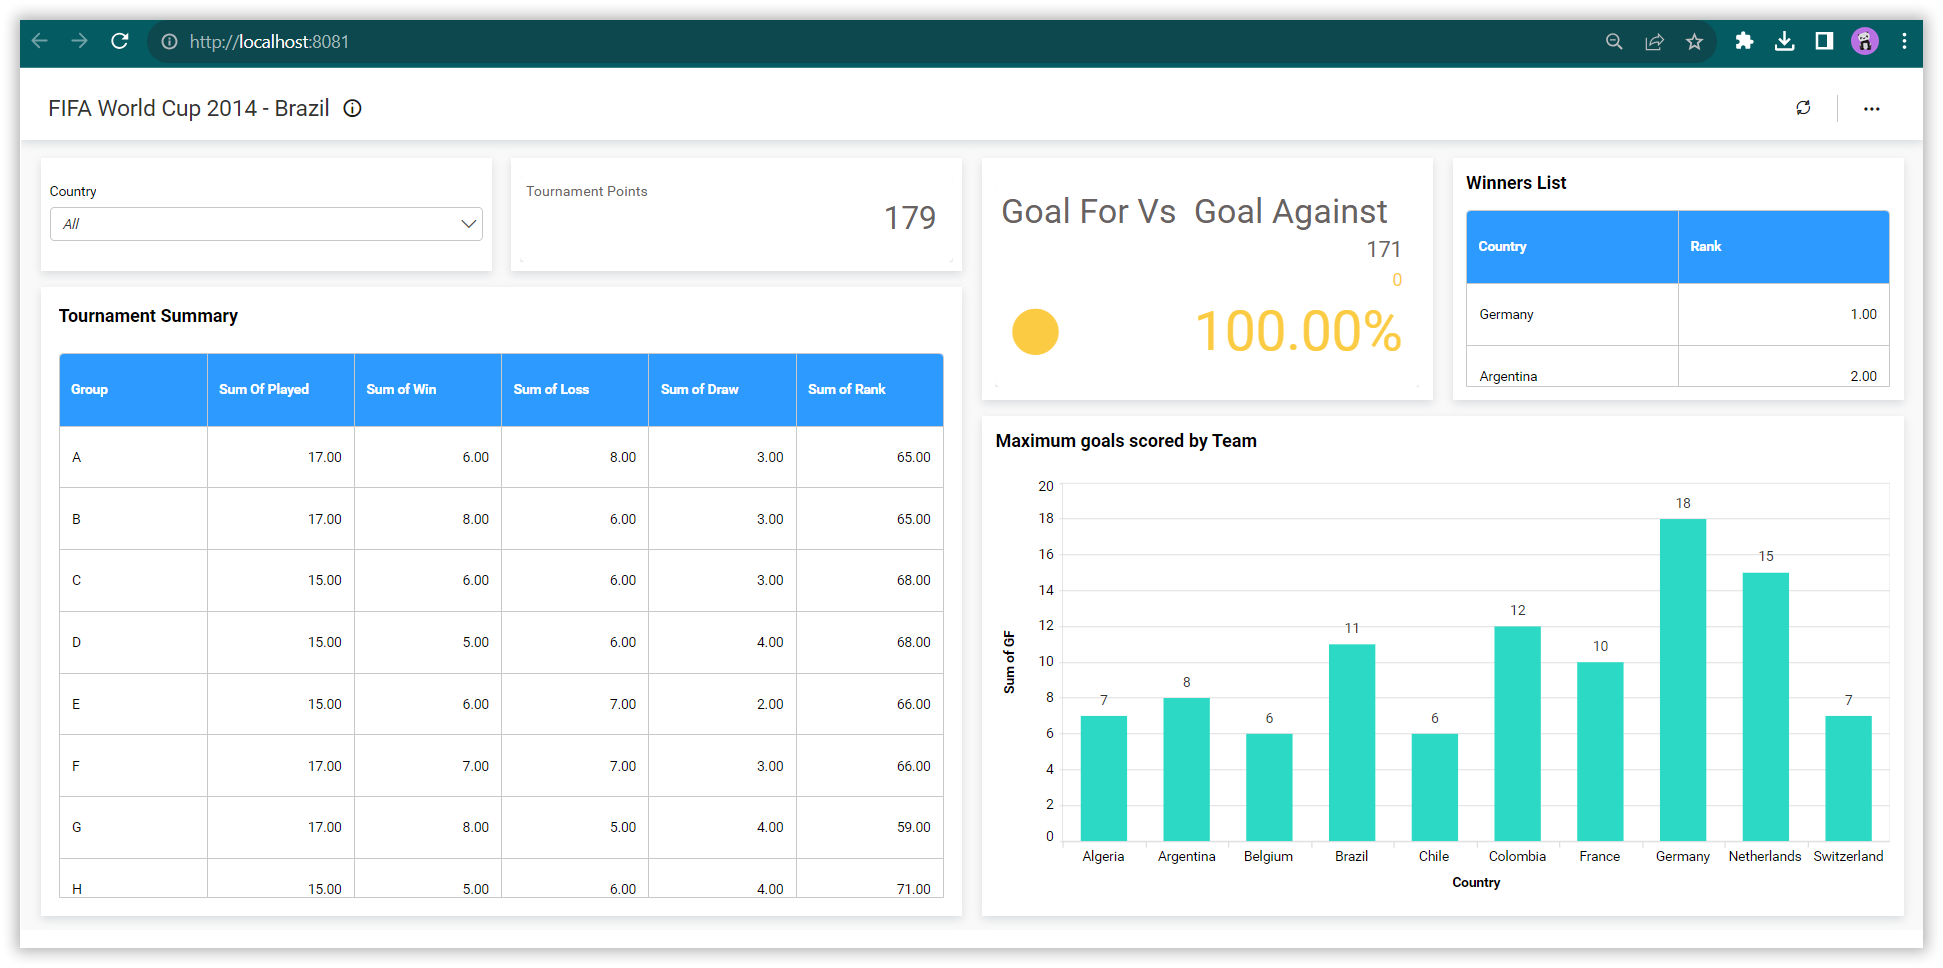
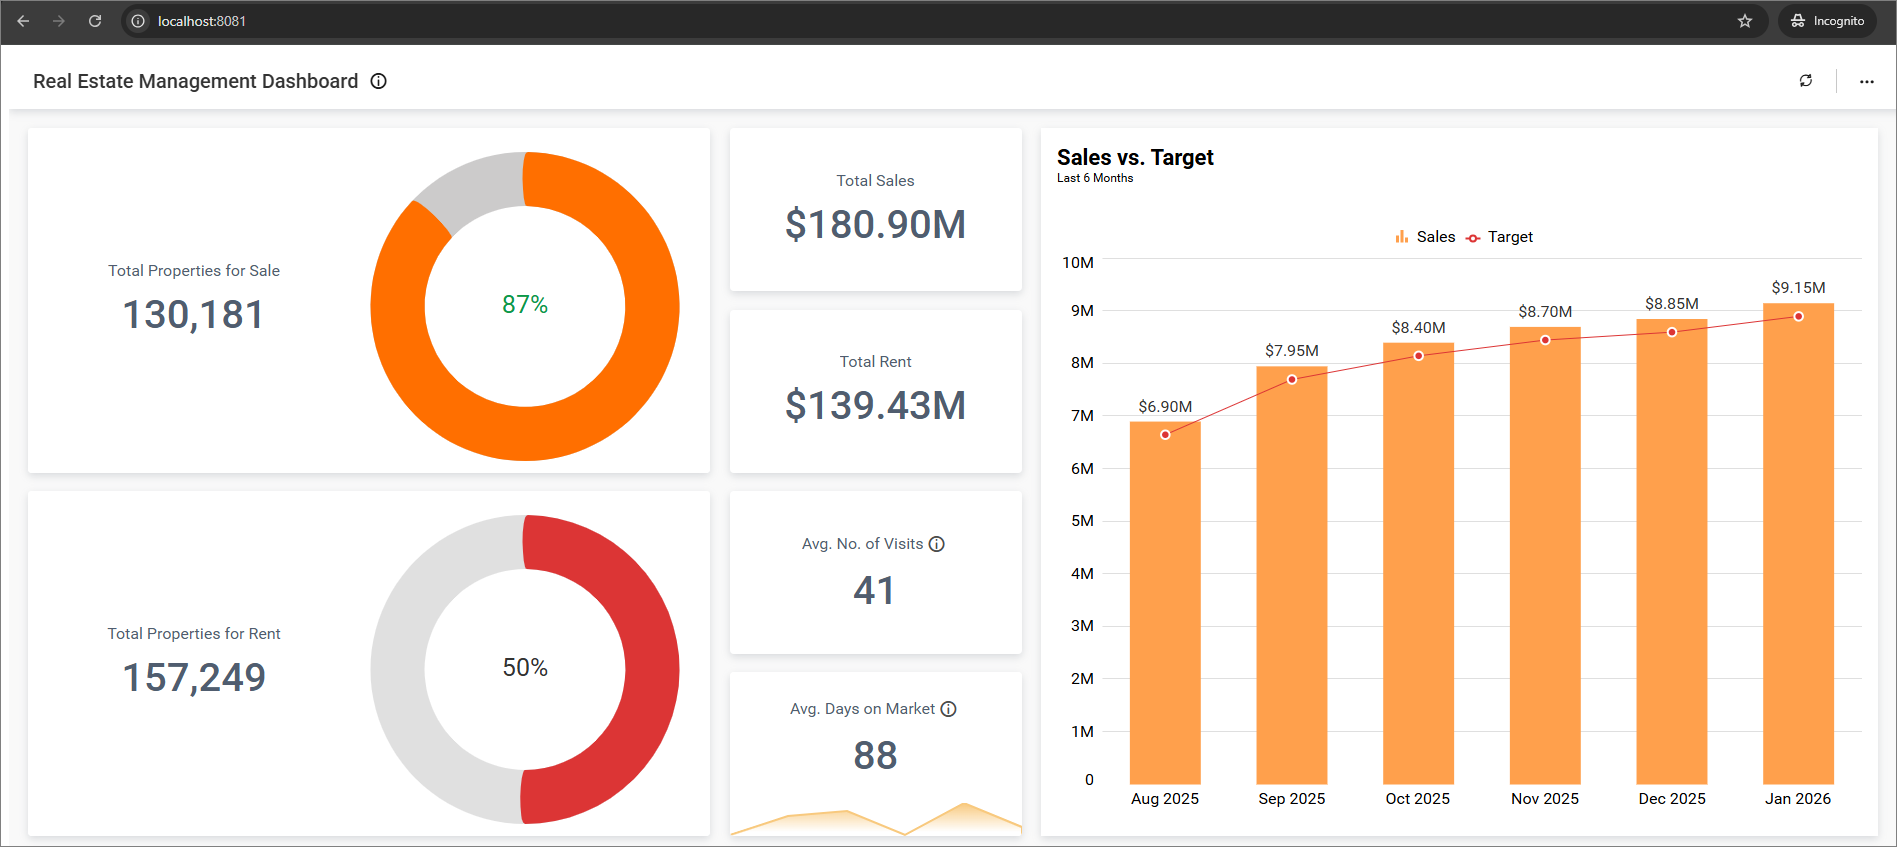
updated sample with embedtoken

diff --git a/Nodejs/embed.js b/Nodejs/embed.js
@@ -16,54 +16,79 @@ app.use(express.json());
 const port = 8080;
 
 let appconfig;
+const configPath = path.join(__dirname, 'embedConfig.json');
+let rawConfig;
 try {
-appconfig = JSON.parse(fs.readFileSync('embedConfig.json'));
-} catch (error) {
-console.error('Error: embedConfig.json file not found.');
-process.exit(1);
+  rawConfig = fs.readFileSync(configPath, 'utf8');
+} catch (err) {
+  console.error(`Error: cannot read embedConfig.json at ${configPath}:`, err.message);
+  process.exit(1);
+}
+try {
+  if (rawConfig && rawConfig.charCodeAt(0) === 0xFEFF) {
+    rawConfig = rawConfig.slice(1);
+  }
+  rawConfig = rawConfig.trim();
+  appconfig = JSON.parse(rawConfig);
+} catch (err) {
+  console.error(`Error: invalid JSON in embedConfig.json at ${configPath}:`, err.message);
+  process.exit(1);
 }
 
-var embedSecret = appconfig.EmbedSecret;
-var userEmail = appconfig.UserEmail;
+app.post('/TokenGeneration', function (req, response) {
+  const embedDetails = {
+    email: appconfig.UserEmail,
+    serverurl: appconfig.ServerUrl,
+    siteidentifier: appconfig.SiteIdentifier,
+    embedsecret: appconfig.EmbedSecret,
+    dashboard: {  // Dashboard ID property is mandatory only when using BoldBI version 14.1.11.
+      id: appconfig.DashboardId
+    }
+  }
 
-app.post('/authorizationserver',  async function (req, response){
-var embedQuerString = req.body.embedQuerString;
-var dashboardServerApiUrl = req.body.dashboardServerApiUrl;
+  const parsedUrl = new URL(embedDetails.serverurl);
+  const postData = JSON.stringify(embedDetails);
+  const client = parsedUrl.protocol === 'https:' ? https : http;
+  const options = {
+    hostname: parsedUrl.hostname,
+    port: parsedUrl.port || (parsedUrl.protocol === 'https:' ? 443 : 80),
+    path: `${parsedUrl.pathname}/api/${embedDetails.siteidentifier}/embed/authorize`,
+    method: 'POST',
+    headers: {
+      'Content-Type': 'application/json',
+      'Content-Length': Buffer.byteLength(postData)
+    }
+  };
 
-embedQuerString += "&embed_user_email=" + userEmail;
-embedQuerString += "&embed_server_timestamp=" + Math.round((new Date()).getTime() / 1000);
-var embedSignature = "&embed_signature=" + GetSignatureUrl(embedQuerString);
-var embedDetailsUrl = "/embed/authorize?" + embedQuerString+embedSignature;
-
-var serverProtocol = url.parse(dashboardServerApiUrl).protocol == 'https:' ? https : http;
-serverProtocol.get(dashboardServerApiUrl+embedDetailsUrl, function(res){
-    var str = '';
-    res.on('data', function (chunk) {
-    str += chunk;
+  const requ = client.request(options, res => {
+    let result = '';
+    res.setEncoding('utf8');
+    res.on('data', chunk => result += chunk);
+    res.on('end', () => {
+      const resultparse = JSON.parse(result); // Parse the response
+      response.send(resultparse?.Data?.access_token);
     });
-    res.on('end', function () {
-    response.send(str);
-    });
-});
+  });
+
+  requ.on('error', (e) => {
+    console.error("Error fetching embed token:", e.message);
+  });
+
+  requ.write(postData);
+  requ.end();
 })
 
-function GetSignatureUrl(queryString)
-{
-var keyBytes = Buffer.from(embedSecret);
-var hmac = crypto.createHmac('sha256', keyBytes);
-data = hmac.update(queryString);
-gen_hmac= data.digest().toString('base64');
-
-return gen_hmac;
-}
 app.get('/getdetails', (req, res) => {
-    const serverEmbedConfigData = path.join(__dirname, 'embedConfig.json');
-    const jsonData = fs.readFileSync(serverEmbedConfigData, 'utf8');
-    const parsedData = JSON.parse(jsonData);
+    const parsedData = appconfig;
 
     const clientEmbedConfigData = {
-        DashboardId: parsedData.DashboardId, ServerUrl: parsedData.ServerUrl, SiteIdentifier: parsedData.SiteIdentifier, EmbedType: parsedData.EmbedType, Environment: parsedData.Environment
+        DashboardId: parsedData.DashboardId,
+        ServerUrl: parsedData.ServerUrl,
+        SiteIdentifier: parsedData.SiteIdentifier,
+        EmbedType: parsedData.EmbedType,
+        Environment: parsedData.Environment
     };
+
     res.send(clientEmbedConfigData);
 });
 

diff --git a/vue/src/App.vue b/vue/src/App.vue
@@ -45,18 +45,33 @@ async mounted() {
             this.showErrorModal = true;
         }
 
+        function getEmbedToken() {
+          return fetch(ApiHost + "/tokengeneration", {  // Backend application URL
+            method: 'POST',
+            headers: { 'Content-Type': 'application/json' },
+            body: JSON.stringify({})
+          })
+            .then(response => {
+              if (!response.ok) throw new Error("Token fetch failed");
+              return response.text();
+            });
+        }
+    
         function renderDashboard(data) {
-        let dashboard = BoldBI.create({
-            serverUrl: data.ServerUrl + '/' + data.SiteIdentifier,
-            dashboardId: data.DashboardId,
-            embedContainerId: 'dashboard',
-            width: '100%',
-            height: window.innerHeight + 'px',
-            authorizationServer: {
-              url: ApiHost + "/authorizationserver"
-            }
-        });
-        dashboard.loadDashboard();
+          getEmbedToken()
+            .then(accessToken => {
+              const dashboard = BoldBI.create({
+                serverUrl: data.ServerUrl + "/" + data.SiteIdentifier,
+                dashboardId: data.DashboardId,
+                embedContainerId: "dashboard",
+                embedToken: accessToken
+              });
+
+              dashboard.loadDashboard();
+            })
+            .catch(err => {
+              console.error("Error rendering dashboard:", err);
+            });
         }
     }
 };

diff --git a/README.md b/README.md
@@ -15,7 +15,7 @@
 
 ### Supported browsers
   
-* Google Chrome, Microsoft Edge, Mozilla Firefox.
+* Google Chrome, Microsoft Edge, and Mozilla Firefox.
 
 ## Configuration
 
@@ -48,7 +48,7 @@
 
 ## Developer IDE
 
-* [Visual studio code](https://code.visualstudio.com/download)
+* [Visual Studio Code](https://code.visualstudio.com/download)
 
 ### Run a Sample Using Visual Studio Code
 
@@ -64,7 +64,7 @@
 
   * Finally, run the application using the following command `npm run serve`. After the application has started, it will display a URL in the command line interface, typically something like (e.g., <http://localhost:8081>). Copy this URL and paste it into your default web browser.
 
-![dashboard image](images/dashboard-view.png)
+  ![dashboard image](images/dashboard-view.png)
 
 > **NOTE:** If the API host is already in use, modify the port number per your preference in embed.js and update that App.vue file.
 
